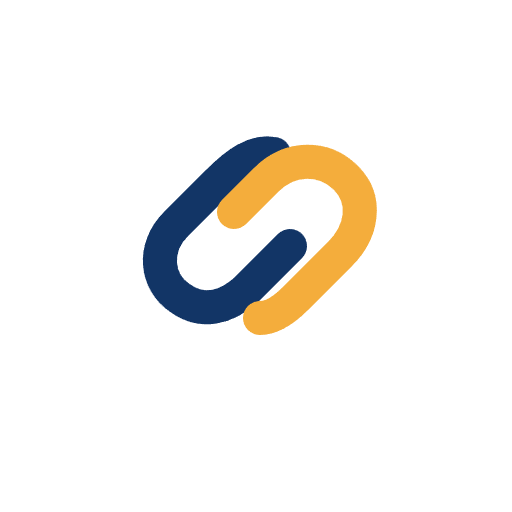
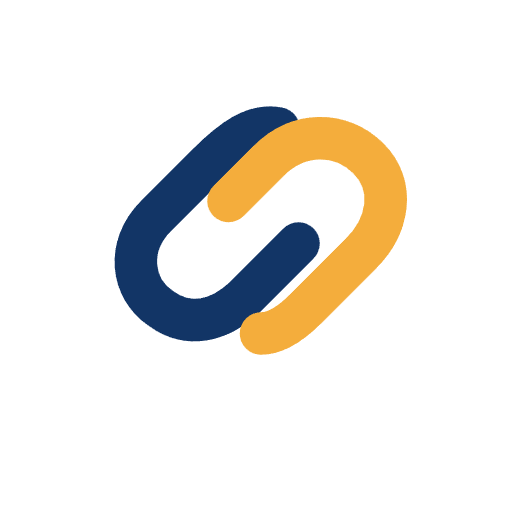
화면수정

Changed region(s): [[0.2188, 0.1875, 0.8125, 0.7188], [0.5, 0.375, 0.5312, 0.4062]]

diff --git a/apps/web/src/EnglishLearning.tsx b/apps/web/src/EnglishLearning.tsx
@@ -46,6 +46,7 @@ export default function EnglishLearning() {
   const [attempts, setAttempts] = useState<Record<string, number>>({});
   const [message, setMessage] = useState('이어갈 알파벳을 골라 주세요.');
   const [book, setBook] = useState(false);
+  const [confirmRestart, setConfirmRestart] = useState(false);
   const [filter, setFilter] = useState<keyof Records | 'all'>('all');
   const [query, setQuery] = useState('');
   const [limit, setLimit] = useState(40);
@@ -174,6 +175,8 @@ export default function EnglishLearning() {
     }
   }
   function restart() {
+    closeFloating();
+    setConfirmRestart(false);
     if (chain.length && !finished && !window.confirm('진행 중인 이음을 마치고 새로 시작할까요?')) return;
     sessionAwarded.current = false;
     setMeaningOpen(false);
@@ -199,7 +202,7 @@ export default function EnglishLearning() {
             {index > 0 && <span className={`english-chain-bridge ${vertical ? 'bridge-down' : column === 2 ? 'bridge-right' : 'bridge-left'}`} aria-label={`${chain[index - 1].letter}로 이어짐`}><span>{chain[index - 1].letter}</span><span aria-hidden="true">{vertical ? '↓' : column === 2 ? '→' : '←'}</span></span>}
             <span className={`chain-word-step${index > 0 ? ' chain-step-badge' : ''}`} style={index > 0 ? { backgroundColor: STEP_COLORS[index - 1], color: index <= 2 || index === SESSION_LIMIT ? '#243a36' : '#fff' } : undefined}>{index === 0 ? '시작' : `${index} / ${SESSION_LIMIT}`}</span>
             {index === SESSION_LIMIT && <span className="chain-complete-label">10개 이음 완성</span>}
-            <strong>{item.word}</strong><p>{item.meaning}</p>
+            <strong lang="en">{item.word}</strong><p>{item.meaning}</p>
           </li>;
         })}</ol>
       </section>}
@@ -207,26 +210,40 @@ export default function EnglishLearning() {
         {current.synonym.trim() && <div className="word-example word-synonyms" aria-label="동의어"><span>동의어</span><p>{current.synonym}</p></div>}
         {(current.example || current.exampleMeaning) && <div className="word-example" aria-label="예문"><div className="example-heading"><span>예문</span>{current.exampleMeaning && <button type="button" className="meaning-toggle" aria-expanded={translationOpen} aria-controls="english-example-translation" onClick={() => setTranslationOpen(value => !value)}>{translationOpen ? '해석 접기' : '해석 보기'} <span aria-hidden="true">ⓘ</span></button>}</div>{current.example && <p lang="en">{current.example}</p>}{current.exampleMeaning && <p id="english-example-translation" hidden={!translationOpen}>{current.exampleMeaning}</p>}</div>}
       </div>
-      {finished ? <div className="summary"><h2>{chain.length === SESSION_LIMIT ? '10개 단어를 이었어요!' : '이어갈 후보가 더 없어요.'}</h2><button className="primary" onClick={restart}>새 세션 시작</button></div> : <>
-        <h3 className="english-step">01 알파벳을 골라 주세요</h3>
-        <div className="characters">{englishLetters(current).map((ch, index) => <button key={`${index}-${ch}`} aria-pressed={letter === ch} disabled={!englishCandidates(words, ch, used, history).length} onClick={() => choose(ch)}><strong>{ch}</strong></button>)}</div>
-        <h3 className="english-step">02 풀 후보를 선택하세요 {letter && `· ${candidates.length}개`}</h3>
-        {!letter && <p className="empty">알파벳을 고르면 후보가 나타나요.</p>}
+      {finished ? <div className="summary"><span className="eyebrow">나만의 배움 한 줄</span><h2>{chain.length === SESSION_LIMIT ? '10개 단어를 이었어요!' : '이번 이음은 여기까지예요.'}</h2><p>{chain.length === SESSION_LIMIT ? '오늘 알게 된 단어들이 다음 배움의 시작이 될 거예요.' : '같은 단어를 반복하지 않고 이어갈 후보가 더 없어요.'}</p><button className="primary" onClick={restart}>새 이음 시작하기 <span aria-hidden="true">↗</span></button></div> : <>
+        <div className="instruction"><h3>01 <span>이어갈 알파벳을 골라 주세요</span></h3><span>후보가 없는 글자는 쉬어 가요</span></div>
+        <div className="characters">{englishLetters(current).map((ch, index) => {
+          const count = englishCandidates(words, ch, used, history).length;
+          return <button key={`${index}-${ch}`} aria-label={count ? ch : `${ch}, 후보 없음`} aria-pressed={letter === ch} disabled={!count} onClick={() => choose(ch)}><strong>{ch}</strong></button>;
+        })}</div>
+        <section className="hints" aria-label="영어 정답 후보 힌트">
+        <div className="hint-heading"><h3>02 <span>풀고 싶은 영어 단어를 선택해 주세요</span></h3>{letter && <span className="pill">{candidates.length}개 후보</span>}</div>
+        {!letter && <p className="empty">위에서 알파벳을 고르면<br />그 글자가 들어간 영어 단어의 힌트가 나타나요.</p>}
+        {letter && <p className="hint-description">‘<b>{letter}</b>’가 들어가는 후보를 선택한 뒤, 그 후보의 영어 단어를 입력하세요.</p>}
         <ol className="candidate-list english-candidates" onWheel={closeFloating} onTouchMove={closeFloating} onScroll={() => { if (!opening.current) closeFloating(); }}>{candidates.slice(0, limit).map((item, index) => <li key={item.id} className={targetId === item.id ? 'selected-candidate' : ''} onClick={event => { if ((event.target as HTMLElement).tagName === 'LABEL') return; selectCandidate(item, event.currentTarget.querySelector('input')!); }}>
-          <label className="candidate-choice english-candidate-choice"><input type="radio" name="english-candidate" value={item.id} aria-label={`후보 ${index + 1} 선택`} checked={targetId === item.id} onChange={() => {}} /><span className="candidate-length">{englishLength(item)}글자</span>{item.synonym.trim() && <span className="candidate-synonym"><span>동의어: </span><span className="candidate-synonym-value">{item.synonym}</span></span>}</label>
+          <label className="candidate-choice english-candidate-choice"><input type="radio" name="english-candidate" value={item.id} aria-label={`후보 ${index + 1} 선택`} checked={targetId === item.id} onChange={() => {}} /><span className="candidate-number">{String(index + 1).padStart(2, '0')}</span><span className="candidate-length">{englishLength(item)}글자</span>{item.synonym.trim() && <span className="candidate-synonym"><span>동의어: </span><span className="candidate-synonym-value">{item.synonym}</span></span>}</label>
           <p>{item.meaning}</p>{targetId === item.id && !!attempts[item.id] && <span className="reading-hint">철자 힌트 · {englishHint(item, letter, attempts[item.id])}</span>}
         </li>)}</ol>
         {candidates.length > limit && <button className="book-more" onClick={() => setLimit(value => value + 40)}>후보 40개 더 보기</button>}
+        </section>
         <form onSubmit={submit} className={`answer-form${floating ? ' floating-answer' : ''}`} style={floating ? { top: floating.top, left: floating.left, width: floating.width, maxHeight: floating.maxHeight } : undefined} onKeyDown={event => { if (event.key === 'Escape') closeFloating(); }}><div className="floating-answer-heading"><label htmlFor="english-answer">03 {selected ? `후보 ${candidates.indexOf(selected) + 1}의 영어 단어` : '후보를 먼저 선택해 주세요'}</label>{floating && <button type="button" className="floating-close" onClick={closeFloating} aria-label="입력창 닫기">×</button>}</div><div className="input-row"><input ref={input} id="english-answer" value={answer} onChange={event => setAnswer(event.target.value)} disabled={!selected} autoComplete="off" autoCapitalize="none" spellCheck={false} aria-describedby={floating ? 'english-floating-feedback' : 'english-feedback'} placeholder="영어 단어 입력" /><button className="primary" disabled={!selected}>확인</button></div>{floating && <p id="english-floating-feedback" role="status">{selected && attempts[selected.id] ? `철자 힌트 · ${englishHint(selected, letter, attempts[selected.id])}` : '후보 목록을 스크롤하면 입력창이 닫혀요.'}</p>}</form>
       </>}
-      <p id="english-feedback" className="feedback" role="status">{message}</p><button className="text-button" onClick={restart}>새 세션 시작하기 ↻</button>
+      <p id="english-feedback" className="feedback" role="status">{finished ? `${chain.length}개의 영어 단어를 정답으로 이었어요.` : message}</p>
+      <aside className="sidebar">
+        <section className="guide"><span className="eyebrow">이렇게 이어가요</span><p>선택한 알파벳이 들어간 후보를 고르고<br />전체 영어 단어를 입력하면 정답!</p><ul><li>대소문자는 구분하지 않아요.</li><li>한 이음은 최대 {SESSION_LIMIT}문제예요.</li><li>같은 이음의 단어는 다시 나오지 않아요.</li><li>처음 만나는 단어를 먼저 보여드려요.</li><li>오답이면 철자 힌트가 하나씩 열려요.</li></ul></section>
+        <div className="session-actions">{confirmRestart ? <div className="restart-confirm"><p>지금 이음을 마치고 새로 시작할까요?</p><button onClick={restart}>새로 시작</button><button onClick={() => setConfirmRestart(false)}>계속 풀기</button></div> : <button className="text-button" onClick={() => { closeFloating(); setConfirmRestart(true); }}>새 이음 시작하기 ↻</button>}</div>
+      </aside>
     </div>
-    <div hidden={!book}>
-      <div className="book-tabs">{([['all', '전체'], ['favorites', '즐겨찾기'], ['completed', '학습완료'], ['mistakes', '오답노트']] as const).map(([value, label]) => <button key={value} aria-pressed={filter === value} onClick={() => { setFilter(value); setLimit(40); }}>{label}</button>)}</div>
-      <label htmlFor="english-search">단어 또는 뜻 검색</label><input className="book-search-input" id="english-search" type="search" value={query} onChange={event => { setQuery(event.target.value); setLimit(40); }} />
-      <p className="book-result">{listed.length}개 단어</p><ul className="book-list">{listed.slice(0, limit).map(item => <li key={item.id}><div className="book-item-heading"><h2>{item.word}</h2><button className="favorite-button" aria-label={`${item.word} 즐겨찾기`} aria-pressed={records.favorites.includes(item.id)} onClick={() => save({ ...records, favorites: records.favorites.includes(item.id) ? records.favorites.filter(id => id !== item.id) : [...records.favorites, item.id] })}>{records.favorites.includes(item.id) ? '★' : '☆'}</button></div><strong>{item.partOfSpeech}</strong><p>{item.meaning}</p>{item.synonym.trim() && <p className="book-synonyms">동의어 · {item.synonym}</p>}<p className="book-note">{item.example}<br />{item.exampleMeaning}</p>{records.mistakes.includes(item.id) && <span className="book-badge">오답 복습</span>}</li>)}</ul>
-      {!listed.length && <p className="book-empty">해당하는 단어가 없어요.</p>}{listed.length > limit && <button className="book-more" onClick={() => setLimit(value => value + 40)}>40개 더 보기</button>}
-    </div>
+    <section className="english-book" hidden={!book} aria-labelledby="english-book-title">
+      <div className="book-heading"><div><span className="eyebrow">한 글자씩 쌓이는 배움</span><h1 id="english-book-title">나의 영어 단어장</h1></div><span>전체 {words.length}개</span></div>
+      <p className="book-description">영어 단어와 뜻을 살펴보고, 다시 보고 싶은 단어를 모아 보세요.</p>
+      <div className="book-tabs" role="group" aria-label="영어 단어장 분류">{([['all', '전체'], ['favorites', '즐겨찾기'], ['completed', '학습완료'], ['mistakes', '오답노트']] as const).map(([value, label]) => <button key={value} aria-pressed={filter === value} onClick={() => { setFilter(value); setLimit(40); }}>{label}</button>)}</div>
+      <label className="book-search" htmlFor="english-search">영어 단어 검색</label><input className="book-search-input" id="english-search" type="search" placeholder="영어 단어 또는 뜻 검색" value={query} onChange={event => { setQuery(event.target.value); setLimit(40); }} />
+      {filter === 'completed' && <p className="book-note">퀴즈에서 직접 정답을 맞힌 영어 단어예요.</p>}
+      {filter === 'mistakes' && <p className="book-note">선택한 후보의 철자를 틀렸던 영어 단어예요. 정답을 맞힌 뒤에도 복습할 수 있도록 남겨 두어요.</p>}
+      <p className="book-result">{listed.length}개 단어</p><ul className="book-list">{listed.slice(0, limit).map(item => <li key={item.id}><div className="book-item-heading"><h2>{item.word}</h2><button className="favorite-button" aria-label={`${item.word} 즐겨찾기`} aria-pressed={records.favorites.includes(item.id)} onClick={() => save({ ...records, favorites: records.favorites.includes(item.id) ? records.favorites.filter(id => id !== item.id) : [...records.favorites, item.id] })}>{records.favorites.includes(item.id) ? '★' : '☆'}</button></div><strong className="book-reading">{item.partOfSpeech}</strong><p>{item.meaning}</p>{item.synonym.trim() && <p className="book-synonyms">동의어 · {item.synonym}</p>}<p className="book-note">{item.example}<br />{item.exampleMeaning}</p>{records.completed.includes(item.id) && <span className="book-badge">학습완료</span>}{records.mistakes.includes(item.id) && <span className="book-badge">오답 복습</span>}</li>)}</ul>
+      {!listed.length && <p className="book-empty">{query ? '검색 결과가 없어요. 다른 단어나 뜻으로 찾아보세요.' : filter === 'favorites' ? '별표를 눌러 다시 보고 싶은 영어 단어를 담아 보세요.' : filter === 'completed' ? '퀴즈에서 정답을 맞히면 여기에 쌓여요.' : '아직 기록된 오답이 없어요.'}</p>}{listed.length > limit && <button className="book-more" onClick={() => setLimit(value => value + 40)}>40개 더 보기 ({Math.min(limit, listed.length)} / {listed.length})</button>}
+    </section>
     {warning && <p className="notice" role="alert">{warning}</p>}
     {sessionWarning && <p className="notice" role="alert">{sessionWarning}</p>}
   </section>;

diff --git a/apps/web/src/App.tsx b/apps/web/src/App.tsx
@@ -341,7 +341,7 @@ export default function App() {
             <span className="eyebrow">나만의 배움 한 줄</span>
             <h2>{chain.length >= SESSION_LIMIT ? '10개의 한자성어를 이었어요!' : '이번 이음은 여기까지예요.'}</h2>
             <p>{chain.length >= SESSION_LIMIT ? '오늘 알게 된 말들이 다음 도전에 힘이 될 거예요.' : '같은 한자성어를 반복하지 않고 이어갈 후보가 더 없어요.'}</p>
-            <button className="primary" onClick={restart}>새 세션 시작하기 <span aria-hidden="true">↗</span></button>
+            <button className="primary" onClick={restart}>새 이음 시작하기 <span aria-hidden="true">↗</span></button>
           </div> : <>
             <div className="instruction"><h3>01 <span>이어갈 한 글자를 골라 주세요</span></h3><span>후보가 없는 글자는 쉬어 가요</span></div>
             <div className="characters">{[...current.reading].map((ch, index) => {
@@ -372,8 +372,8 @@ export default function App() {
           <p id="feedback" className="feedback" role="status">{finished ? `${chain.length}개의 한자성어를 정답으로 이었어요.` : message}</p>
         </section>
         <aside className="sidebar">
-          <section className="guide"><span className="eyebrow">이렇게 이어가요</span><p>선택한 한글 글자가 독음에 들어간 후보를 고르고<br />전체 독음을 입력하면 정답!</p><ul><li>한자는 달라도 같은 한글이면 이어져요.</li><li>한 세션은 최대 10문제예요.</li><li>같은 세션의 한자성어는 다시 나오지 않아요.</li><li>처음 만나는 한자성어를 먼저 보여드려요.</li><li>오답이면 독음 힌트가 하나씩 열려요.</li></ul></section>
-          <div className="session-actions">{confirmRestart ? <div className="restart-confirm"><p>지금 이음을 마치고 새로 시작할까요?</p><button onClick={restart}>새로 시작</button><button onClick={() => setConfirmRestart(false)}>계속 풀기</button></div> : <button className="text-button" onClick={() => setConfirmRestart(true)}>새 세션으로 시작하기 ↻</button>}</div>
+          <section className="guide"><span className="eyebrow">이렇게 이어가요</span><p>선택한 한글 글자가 독음에 들어간 후보를 고르고<br />전체 독음을 입력하면 정답!</p><ul><li>한자는 달라도 같은 한글이면 이어져요.</li><li>한 이음은 최대 10문제예요.</li><li>같은 이음의 한자성어는 다시 나오지 않아요.</li><li>처음 만나는 한자성어를 먼저 보여드려요.</li><li>오답이면 독음 힌트가 하나씩 열려요.</li></ul></section>
+          <div className="session-actions">{confirmRestart ? <div className="restart-confirm"><p>지금 이음을 마치고 새로 시작할까요?</p><button onClick={restart}>새로 시작</button><button onClick={() => setConfirmRestart(false)}>계속 풀기</button></div> : <button className="text-button" onClick={() => setConfirmRestart(true)}>새 이음 시작하기 ↻</button>}</div>
         </aside>
       </div>
       </div>
@@ -385,7 +385,7 @@ export default function App() {
       {warning && <p className="notice" role="alert">{warning}</p>}
       {sessionWarning && <p className="notice" role="alert">{sessionWarning}</p>}
       {offline && <p className="notice" role="status">오프라인이에요. 저장된 학습 자료로 계속할 수 있어요.</p>}
-      {update && <div className="notice">새 버전이 준비됐어요. 적용하면 현재 세션이 종료됩니다. <button onClick={() => applyUpdate(update)}>지금 업데이트</button></div>}
+      {update && <div className="notice">새 버전이 준비됐어요. 적용하면 현재 이음이 종료됩니다. <button onClick={() => applyUpdate(update)}>지금 업데이트</button></div>}
       <footer><span>{page === 'home' ? '모두의 이음 · 한자와 영어 학습' : page === 'english' ? `모두의 이음 · 영어 학습 ${englishSource.rows}개` : `모두의 이음 · 한자 학습 ${idioms.length}개`}</span><span>이전 학습 이력은 이 브라우저에 저장돼요. 진행 중인 이음은 새로고침하면 초기화돼요.</span></footer>
       <nav className="bottom-nav" aria-label="학습 선택"><a href="#home" aria-current={page === 'home' ? 'page' : undefined}><span aria-hidden="true">⌂</span>홈</a><a href={hanjaPage === 'book' ? '#idioms' : '#main'} aria-current={page === 'quiz' || page === 'book' ? 'page' : undefined}><span aria-hidden="true">字</span>한자 학습</a><a href="#english" aria-current={page === 'english' ? 'page' : undefined}><span aria-hidden="true">Aa</span>영어 학습</a></nav>
     </main>

diff --git a/apps/web/src/styles.css b/apps/web/src/styles.css
@@ -63,6 +63,10 @@
 .idiom-book .book-note,
 .idiom-book .book-list p,
 .idiom-book .book-empty { word-break: keep-all; overflow-wrap: anywhere; }
+.english-book .book-description,
+.english-book .book-note,
+.english-book .book-list p,
+.english-book .book-empty { word-break: keep-all; overflow-wrap: anywhere; }
 .learning-shell .learning-tabs a,
 .learning-shell .learning-tabs button { font-size: 15px; }
 .learning-shell .book-tabs button { font-size: 13px; }
@@ -86,7 +90,7 @@
   .learning-tabs, .book-tabs { gap: 6px; margin: 14px 0 12px; }
   .learning-count { margin-top: 10px; }
 }
-.english-learning .idiom-card h2 { letter-spacing: 1px; font-family: inherit; font-size: 32px; }
+.english-learning .idiom-card h2 { overflow-wrap: anywhere; }
 .english-step { margin: 22px 0 12px; }
 .word-example { margin-top: 18px; padding-top: 14px; border-top: 1px solid #ffffff40; text-align: left; overflow-wrap: anywhere; }
 .word-example > span { font-size: 11px; opacity: .8; }
@@ -124,7 +128,7 @@
 .bridge-right { width: 44px; right: 100%; top: 50%; transform: translateY(-50%); flex-direction: column; }
 .bridge-left { width: 44px; left: 100%; top: 50%; transform: translateY(-50%); flex-direction: column; }
 .bridge-down { height: 48px; bottom: 100%; left: 50%; transform: translateX(-50%); }
-.english-learning .book-item-heading h2 { font-family: inherit; font-size: 23px; }
+.english-learning .english-chain > li > strong { font-family: "Batang", serif; font-size: 20px; }
 .content-source { display: inline-block; margin-top: 8px; padding: 2px 7px; border: 1px solid currentColor; border-radius: 5px; font-size: 11px; font-weight: 400; }
 .candidate-choice { display: flex; align-items: center; gap: 8px; min-height: 44px; cursor: pointer; font-size: 13px; color: #2d6050; font-weight: 700; }
 .candidate-choice input { width: 20px; height: 20px; accent-color: #2d6050; }
@@ -327,7 +331,7 @@
                                                                         background:#173e35;
                                                                         color:#fff;
                                                                         border-radius:13px;
-                                                                        padding:25px 20px 23px;
+                                                                        padding:16px 20px 14px;
                                                                         background-image:radial-gradient(ellipse at top right,#37634e 0%,transparent 70%)}
                                                                         .card-caption{
                                                                           font-size:10px;

diff --git a/progress.md b/progress.md
@@ -1,5 +1,41 @@
 # 사자성어 학습 구현 진행표
 
+## 전체 UI 세션 명칭을 이음으로 통일 (2026-10-24)
+
+- 요청/변경: 한자·영어 `App.tsx`·`EnglishLearning.tsx`의 새로 시작 버튼·도움말·업데이트 안내에 있는 ‘세션’을 ‘이음’으로 변경. ‘새 세션으로 시작하기’는 ‘새 이음 시작하기’로 정리. 내부 함수·상수·저장 키는 유지. 요구사항에 UI 명칭 확정 기록.
+- 검증: `pnpm.cmd build:vercel` 통과(TypeScript 포함, 기존 영어 청크 경고), `git diff --check` 통과(LF→CRLF 안내 경고). `rg -n '세션' apps/web/src apps/web/public apps/web/index.html` 결과 없음(종료 코드 1: 미일치). 문구 변경으로 단위·브라우저 검사 재실행하지 않음, lint 명령 미등록.
+- 적용/남은 작업: 루트 dist 갱신. Git·실제 배포 미실행, 실제 기기 확인 대기. 개발 문서·과거 기록의 기술 용어는 기존 유지.
+
+## 영어 알파벳 버튼 후보 수 생략 (2026-10-24)
+
+- 요청/변경: 많은 후보 수로 영어 글자 선택 버튼이 복잡해 보여 개수 제거. `EnglishLearning.tsx` 버튼에는 알파벳만 표시하고 후보 없는 글자의 disabled·접근성 안내 유지. 후보 목록 상단 총개수 및 한자 버튼은 기존 유지.
+- 검증: `pnpm.cmd build:vercel` 통과(TypeScript 포함, 기존 영어 청크 경고), `git diff --check` 통과(LF→CRLF 안내 경고). 표시 변경으로 단위·브라우저 검사 재실행하지 않음.
+- 적용/남은 작업: 로컬 및 루트 dist 갱신 완료. Git·실제 배포 미실행, iPhone 확인 대기.
+
+## 한자·영어 현재 카드 상하 여백 축소 (2026-10-24)
+
+- 요청/변경: 첨부한 현재 문제 카드 상하 여백 축소 및 영어 동일 적용. `apps/web/src/styles.css`의 공통 idiom-card 패딩을 상단 25→16px·하단 23→14px로 변경. 좌우 20px·글자 크기 유지.
+- 검증: `pnpm.cmd build:vercel` 통과(TypeScript 포함, 기존 영어 청크 경고), `git diff --check` 통과(LF→CRLF 안내 경고). 여백 변경으로 단위·브라우저 검사 재실행하지 않음.
+- 적용/남은 작업: 로컬 및 루트 dist 갱신. Git·실제 배포 미실행, iPhone 양쪽 카드 확인 대기.
+
+## 아이콘 고리 확대 (2026-10-24)
+
+- 요청/변경: `apps/web/public/icon.svg` 고리 그룹을 중심 기준 1.25배 확대. 흰 배경·파랑/금색 유지. 192px·512px PNG 재렌더링, ICON-NOTES 갱신.
+- 검증: `node tmp/render-app-icons.mjs` 완료, 192px 시각 확인. `pnpm.cmd build:vercel` 통과(TypeScript 포함, 기존 영어 청크 경고), `git diff --check` 통과(LF→CRLF 안내 경고). 이미지 변경으로 단위·브라우저 검사 재실행하지 않음.
+- 적용/남은 작업: 루트 dist 갱신. Git·실제 배포 미실행, 설치 홈 화면 아이콘 확인 대기.
+
+## 영어 글꼴·글자 크기 한자 기준 적용 (2026-10-24)
+
+- 요청/변경: 영어의 현재 단어 카드·단어장 제목에 있던 전용 sans-serif/작은 크기 override를 제거하여 한자와 같은 Batang/Songti/serif 및 카드 기본 44px·모바일 38px, 단어장 제목 27px 적용(`styles.css`). 영어 이음 기록도 한자와 같은 Batang/serif 20px 적용. `EnglishLearning.tsx` 단어장 품사에 한자 독음과 동일한 book-reading 스타일 적용. 긴 영어 단어 줄바꿈 유지.
+- 검증: `pnpm.cmd build`, `pnpm.cmd build:vercel` 통과(TypeScript 포함, 기존 영어 청크 경고), `node scripts/check-browser.mjs` 32개 통과(모바일 넘침·후보 입력·10문제 종료 포함), `git diff --check` 통과(LF→CRLF 안내 경고). 스타일 변경으로 단위 테스트 재실행하지 않음, lint 명령 미등록.
+- 적용/남은 작업: 로컬 및 루트 dist 갱신. Git·배포 미실행, 실제 iPhone 글꼴·긴 단어 줄바꿈 확인 대기.
+
+## 한자 기준 영어 학습 내용·UI 일치 (2026-10-24)
+
+- 요청/변경: 한자 학습을 기준으로 양쪽 화면 내용·UI 정렬. `EnglishLearning.tsx`의 단계 제목·알파벳 후보 수·후보 없음·hints 박스·개수 배지·후보 번호·완주 설명·도움말·새 세션 확인/취소 추가. 영어 단어장 제목/소개·필터별 안내·학습완료 라벨·검색 placeholder·빈 상태·더 보기 개수 추가. `styles.css`에 영어 단어장 단어 단위 줄바꿈 적용. 영어 예문·품사·동의어·철자 판정·검색 범위·후보 40개 점진 표시 유지. 공유 UI 패키지 추가 없음.
+- 검증: `pnpm.cmd build`, `pnpm.cmd build:vercel` 통과(TypeScript 포함, 기존 영어 청크 경고). 브라우저 최초 기존 단어장 첫 book-note 가정으로 실패, 복수 안내에서 해당 문장을 찾도록 검사 보정 후 31개 통과. 새 영어 제목/라벨/검색 안내·세션 확인 취소 검사 추가, 최종 `node scripts/check-browser.mjs` 32개 통과. `git diff --check` 통과(LF→CRLF 안내 경고). 도메인 변경 없어 단위 테스트 재실행하지 않음, lint 명령 미등록.
+- 적용/남은 작업: 로컬 및 루트 dist 갱신. Git·배포 미실행, iPhone 설치 PWA에서 영어 후보·단어장·키보드 확인 대기.
+
 ## 아이콘 흰 배경 변경 (2026-10-24)
 
 - 요청/변경: 파란 고리가 초록 배경에서 잘 보이지 않아 아이콘 바탕을 흰색으로 변경. `apps/web/public/icon.svg` 배경 `#ffffff`, 심볼 색·형태 유지. 192px·512px PNG 재렌더링, `apps/web/ICON-NOTES.md` 갱신.

diff --git a/docs/requirements.md b/docs/requirements.md
@@ -1,5 +1,12 @@
 # 한자성어 연결 학습 요구사항
 
+- UI의 학습 단위 명칭은 ‘세션’ 대신 ‘이음’으로 통일한다(2026-10-24). 내부 식별자·저장 namespace는 유지한다.
+
+## 한자 기준 학습 UI 일치 (2026-10-24)
+
+- 영어도 한자 기준의 단계 제목·글자별 후보 수·후보 박스/개수 배지·번호·완주 안내·학습 도움말·새 세션 확인을 제공한다.
+- 영어 단어장에 제목·소개·검색 안내·필터별 안내/빈 상태·학습완료/오답 복습 라벨·더 보기 개수를 맞춘다. 영어 예문·동의어·품사·검색 범위와 철자 판정은 영어 규칙을 유지한다.
+
 - 한자 단어장 검색은 한글 독음만 대상으로 한다(2026-10-24 사용자 확정). 부분 일치·공백 무시를 유지하며 한자 표기와 뜻은 검색 대상에서 제외한다. 영어 검색은 기존 유지.
 - 단어장 독음 검색과 문제 후보 선정은 두음 변이(녹/록·유/류·이/리 등)를 같은 값으로 비교한다. 부분 비교를 위해 각 음절에 적용하며 원본 독음·정답 판정은 변경하지 않는다. 후보 선정은 세션 기출 제외·미출제 우선 규칙을 유지한다(2026-10-24).
 

diff --git a/apps/web/ICON-NOTES.md b/apps/web/ICON-NOTES.md
@@ -4,4 +4,5 @@
 - 파란 고리의 가독성을 위해 사용자 후속 요청으로 흰 배경 `#ffffff` 적용. 심볼 파랑 `#123566`·금색 `#f4ad3c` 유지. 이전 초록 배경 `#214e3d`는 대체했다.
 - `public/icon.svg`가 편집 원본이며 Chromium canvas로 192px·512px PNG를 렌더링했다. 텍스트·워터마크는 포함하지 않는다.
 - manifest의 512px 아이콘은 maskable 용도로도 사용하므로 심볼을 중앙 안전 영역에 배치했다.
+- 사용자 후속 요청으로 고리 전체를 중심 기준 1.25배 확대했다(2026-10-24). 흰 배경과 파랑·금색 유지.
 - 사용자 제공 이미지라는 사실이 상표·이용 권리 검증 완료를 의미하지 않는다.
